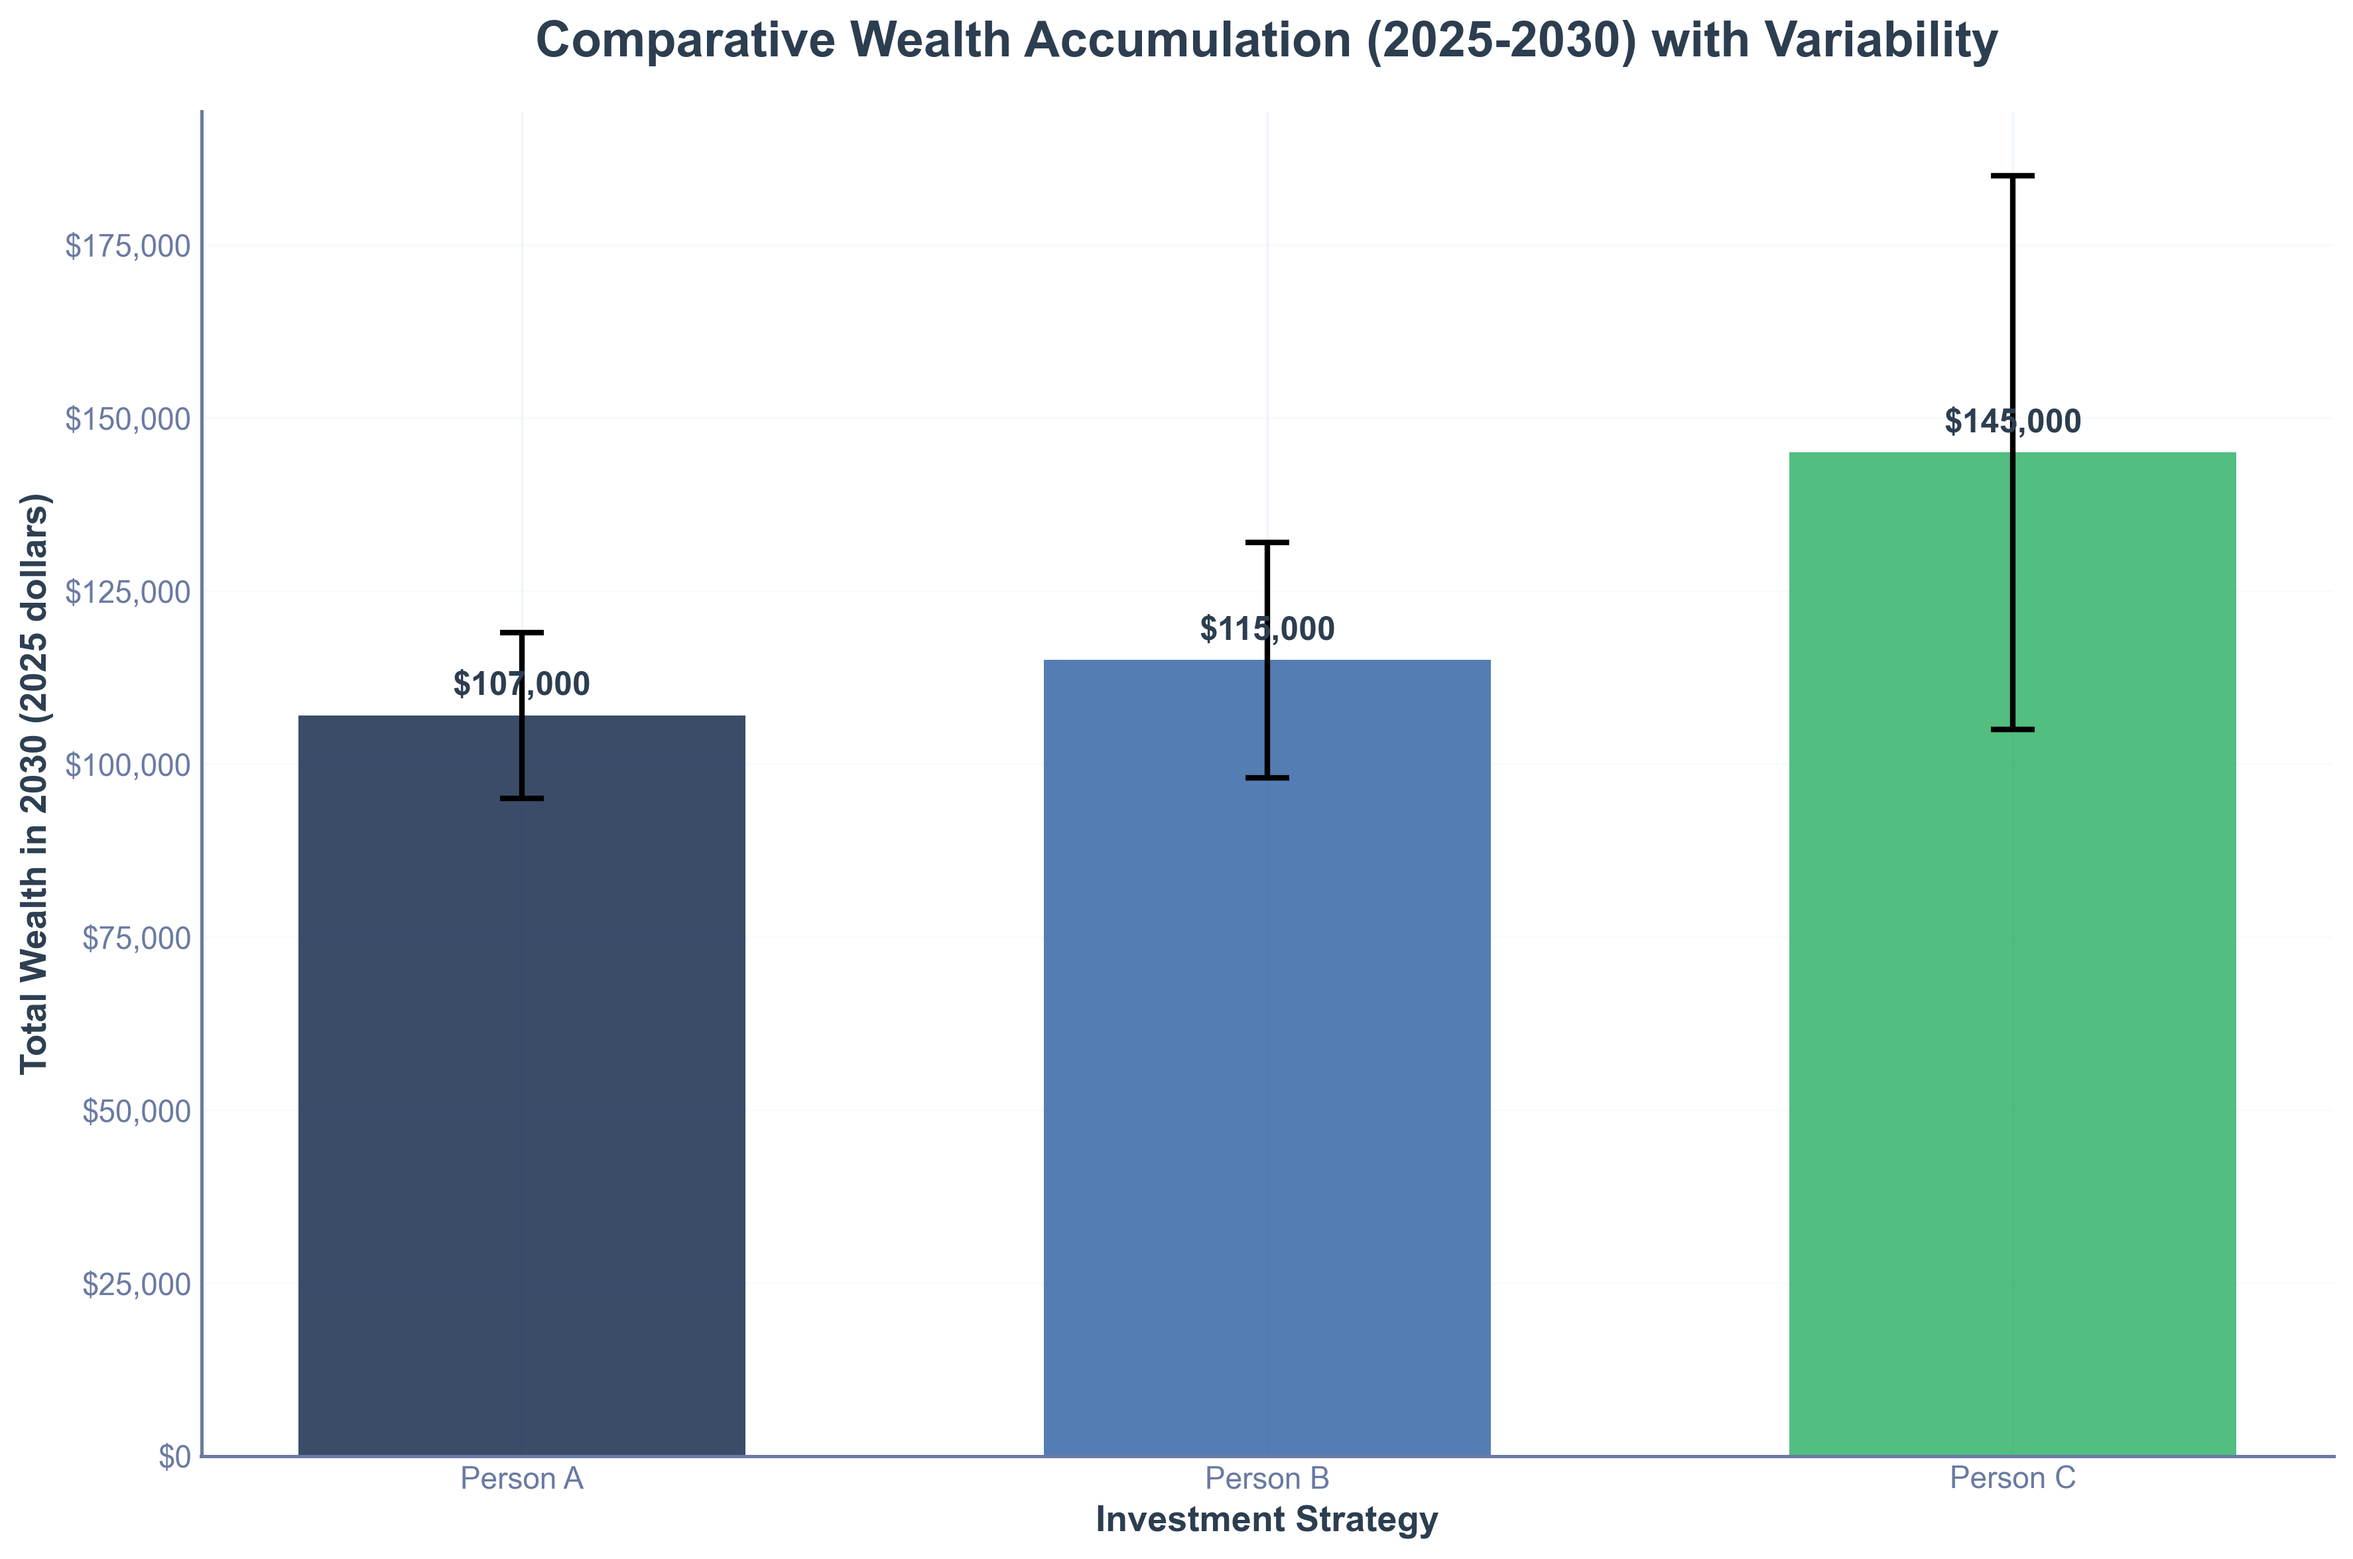
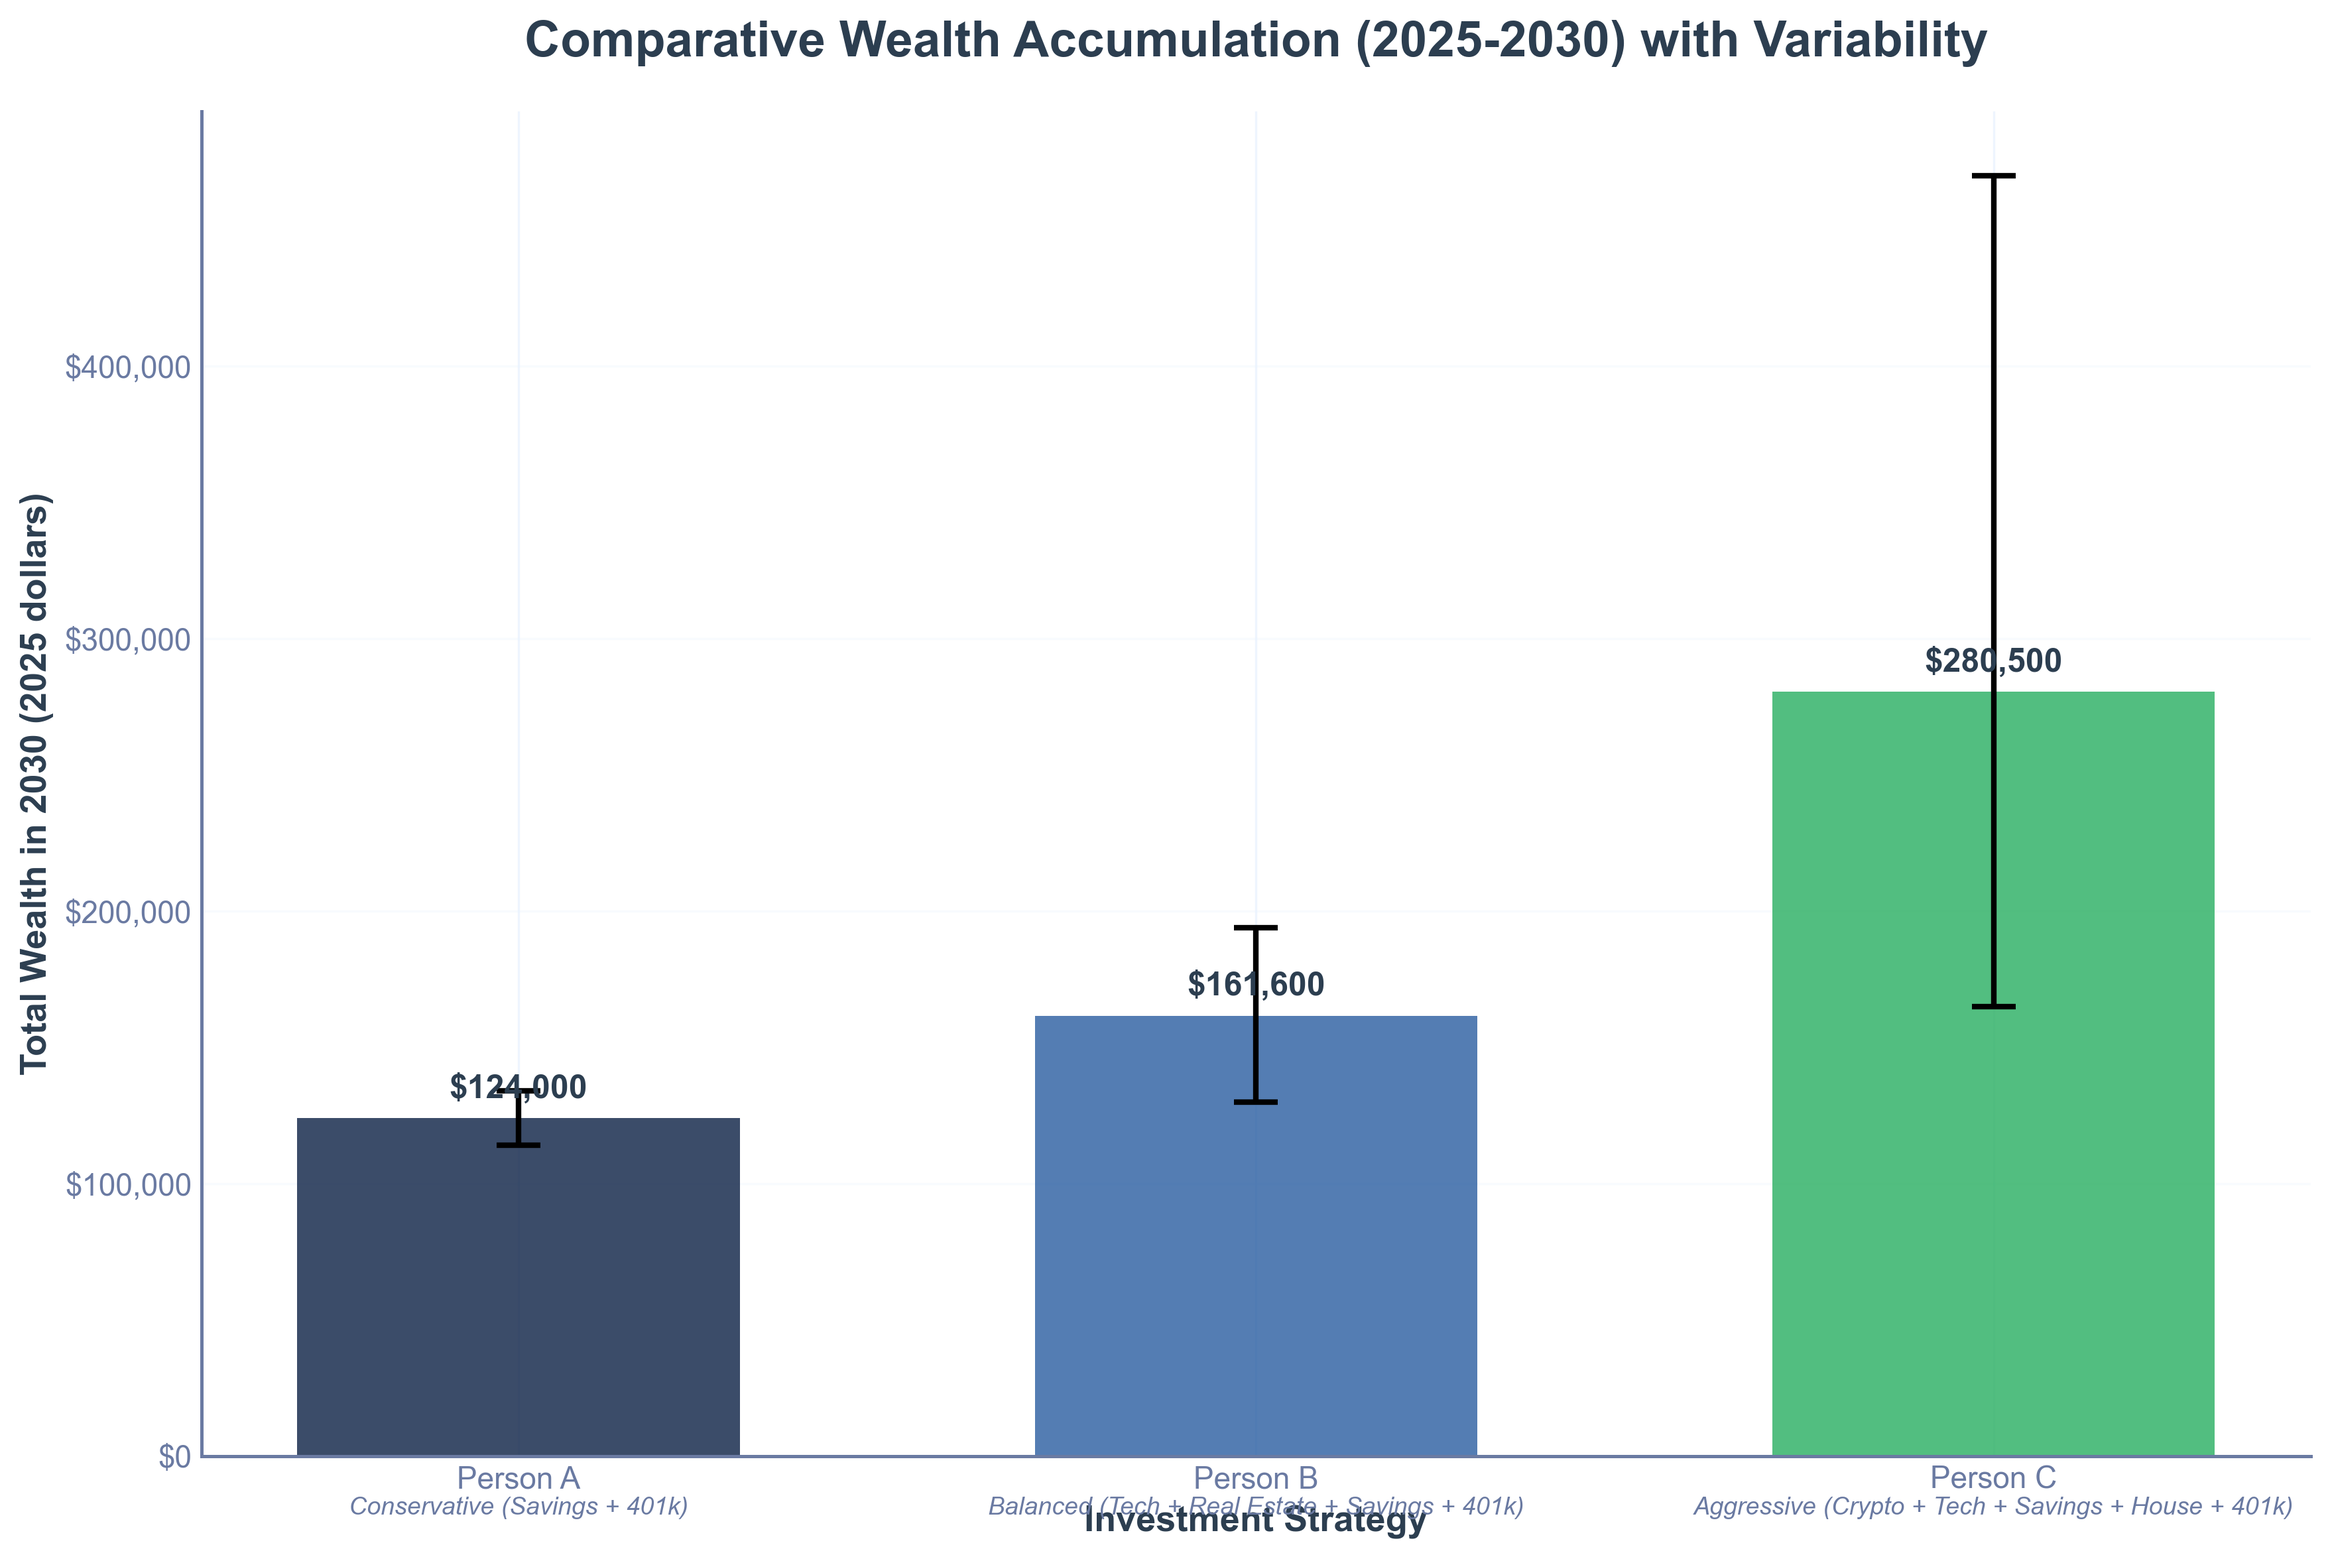
Fix comparison plot to use actual Person A/B/C portfolio data
- Modified create_comparative_wealth_plot to read directly from individual portfolio CSV files
- Removed dependency on outdated comparative_wealth.csv file
- Updated numbers now show correct 2030 projections: A=k, B=k, C=k
- Added strategy descriptions and improved error bar calculations
- Fixed matplotlib import for FuncFormatter compatibility

diff --git a/src/builders/plot_generator.py b/src/builders/plot_generator.py
@@ -6,6 +6,7 @@ Professional plotting functions that match the website's design theme
 import matplotlib
 matplotlib.use('Agg')  # Use non-interactive backend to prevent popups
 import matplotlib.pyplot as plt
+import matplotlib.ticker as ticker
 import seaborn as sns
 import pandas as pd
 import numpy as np
@@ -170,7 +171,7 @@ def create_portfolio_projection_plot(person='A', csv_path=None, save_path=None):
                 fontsize=18, fontweight='bold', color=COLORS['text_dark'], pad=20)
     
     # Format y-axis as currency
-    ax.yaxis.set_major_formatter(plt.FuncFormatter(lambda x, p: f'${x:,.0f}'))
+    ax.yaxis.set_major_formatter(ticker.FuncFormatter(lambda x, p: f'${x:,.0f}'))
     
     # Legend
     ax.legend(loc='upper left', frameon=True, fancybox=True, shadow=True, framealpha=0.9)
@@ -184,27 +185,41 @@ def create_portfolio_projection_plot(person='A', csv_path=None, save_path=None):
     
     return fig
 
-def create_comparative_wealth_plot(csv_path='data/comparative_wealth.csv', save_path='website/images/comparative_wealth_new.png'):
-    """Create comparative wealth outcomes bar chart"""
+def create_comparative_wealth_plot(data_dir='data', save_path='website/images/comparative_wealth.png'):
+    """Create comparative wealth outcomes bar chart using actual portfolio data"""
     setup_plot_style()
     
-    # Load data
-    df = pd.read_csv(csv_path)
+    # Load individual portfolio data
+    person_a_df = pd.read_csv(f'{data_dir}/personA_portfolio.csv')
+    person_b_df = pd.read_csv(f'{data_dir}/personB_portfolio.csv')
+    person_c_df = pd.read_csv(f'{data_dir}/personC_portfolio.csv')
+    
+    # Extract 2030 data for each person
+    a_2030 = person_a_df[person_a_df['Year'] == 2030].iloc[0]
+    b_2030 = person_b_df[person_b_df['Year'] == 2030].iloc[0]
+    c_2030 = person_c_df[person_c_df['Year'] == 2030].iloc[0]
+    
+    # Prepare comparison data
+    persons = ['Person A', 'Person B', 'Person C']
+    portfolios = [a_2030['PersonA_Total'], b_2030['PersonB_Total'], c_2030['PersonC_Total']]
+    lower_bounds = [a_2030['PersonA_Lower'], b_2030['PersonB_Lower'], c_2030['PersonC_Lower']]
+    upper_bounds = [a_2030['PersonA_Upper'], b_2030['PersonB_Upper'], c_2030['PersonC_Upper']]
     
     # Create figure
     fig, ax = plt.subplots(figsize=(12, 8))
     fig.patch.set_facecolor('white')
     
     # Create bar chart
-    x_pos = np.arange(len(df))
-    bars = ax.bar(x_pos, df['Portfolio_2030'], 
+    x_pos = np.arange(len(persons))
+    bars = ax.bar(x_pos, portfolios, 
                   color=[COLORS['primary_blue'], COLORS['accent_blue'], COLORS['success_green']], 
                   alpha=0.8, width=0.6)
     
     # Add error bars for uncertainty
-    ax.errorbar(x_pos, df['Portfolio_2030'], 
-               yerr=[df['Portfolio_2030'] - df['Lower_Bound'], 
-                     df['Upper_Bound'] - df['Portfolio_2030']], 
+    error_lower = [portfolios[i] - lower_bounds[i] for i in range(len(portfolios))]
+    error_upper = [upper_bounds[i] - portfolios[i] for i in range(len(portfolios))]
+    ax.errorbar(x_pos, portfolios, 
+               yerr=[error_lower, error_upper], 
                fmt='none', color='black', capsize=8, capthick=2, linewidth=2)
     
     # Formatting
@@ -215,19 +230,33 @@ def create_comparative_wealth_plot(csv_path='data/comparative_wealth.csv', save_
     
     # Set x-axis labels
     ax.set_xticks(x_pos)
-    ax.set_xticklabels(df['Person'])
+    ax.set_xticklabels(persons)
     
     # Format y-axis as currency
-    ax.yaxis.set_major_formatter(plt.FuncFormatter(lambda x, p: f'${x:,.0f}'))
+    ax.yaxis.set_major_formatter(ticker.FuncFormatter(lambda x, p: f'${x:,.0f}'))
     
     # Add value labels on bars
-    for i, (bar, value) in enumerate(zip(bars, df['Portfolio_2030'])):
-        ax.text(bar.get_x() + bar.get_width()/2, bar.get_height() + 2000, 
+    for i, (bar, value) in enumerate(zip(bars, portfolios)):
+        ax.text(bar.get_x() + bar.get_width()/2, bar.get_height() + 5000, 
                f'${value:,.0f}', ha='center', va='bottom', fontweight='bold')
+    
+    # Add strategy descriptions as subtitle text
+    strategies = [
+        'Conservative (Savings + 401k)',
+        'Balanced (Tech + Real Estate + Savings + 401k)', 
+        'Aggressive (Crypto + Tech + Savings + House + 401k)'
+    ]
+    
+    for i, (bar, strategy) in enumerate(zip(bars, strategies)):
+        ax.text(bar.get_x() + bar.get_width()/2, -15000, 
+               strategy, ha='center', va='top', fontsize=9, 
+               style='italic', color=COLORS['text_light'])
     
     # Grid
     ax.grid(True, alpha=0.3, axis='y')
     
+    # Adjust layout to make room for strategy labels
+    plt.subplots_adjust(bottom=0.15)
     plt.tight_layout()
     plt.savefig(save_path, dpi=300, bbox_inches='tight', facecolor='white')
     plt.close()  # Close the figure to free memory
@@ -261,7 +290,7 @@ def generate_all_plots(data_dir='data', output_dir='images'):
     # Generate comparative wealth plot
     print("📊 Creating comparative wealth analysis...")
     create_comparative_wealth_plot(
-        csv_path=f'{data_dir}/comparative_wealth.csv',
+        data_dir=data_dir,
         save_path=f'{output_dir}/comparative_wealth.png'
     )
     
